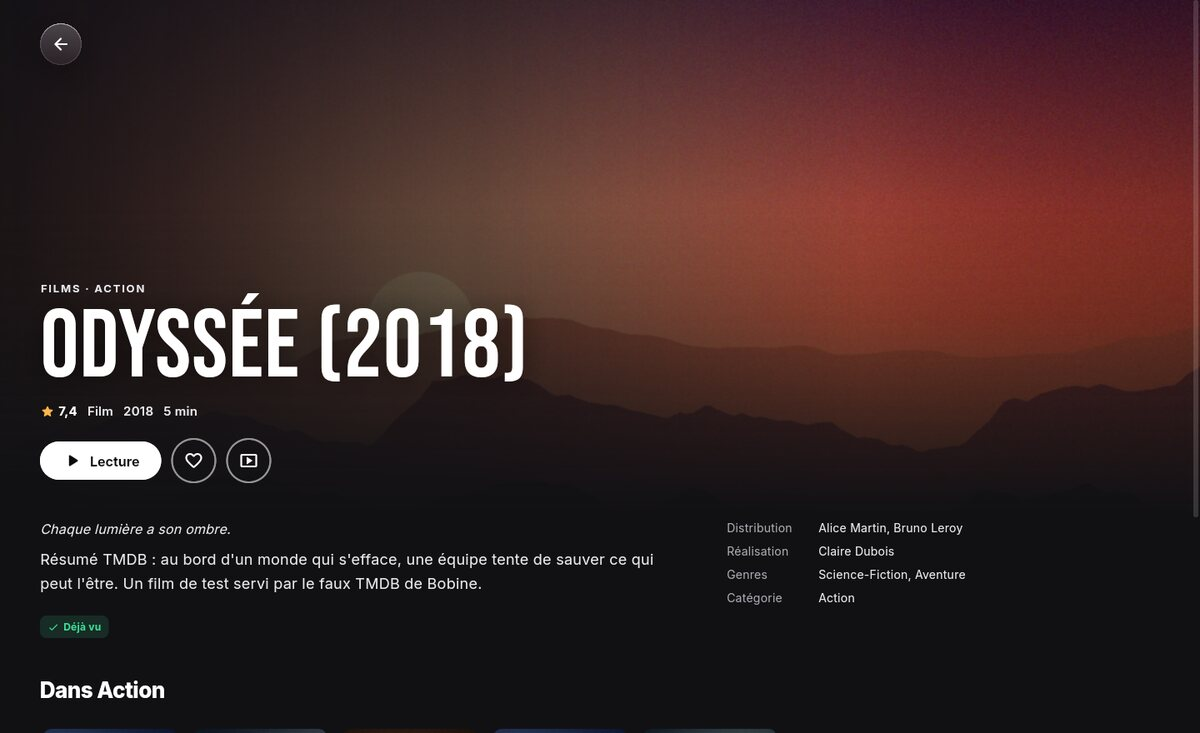
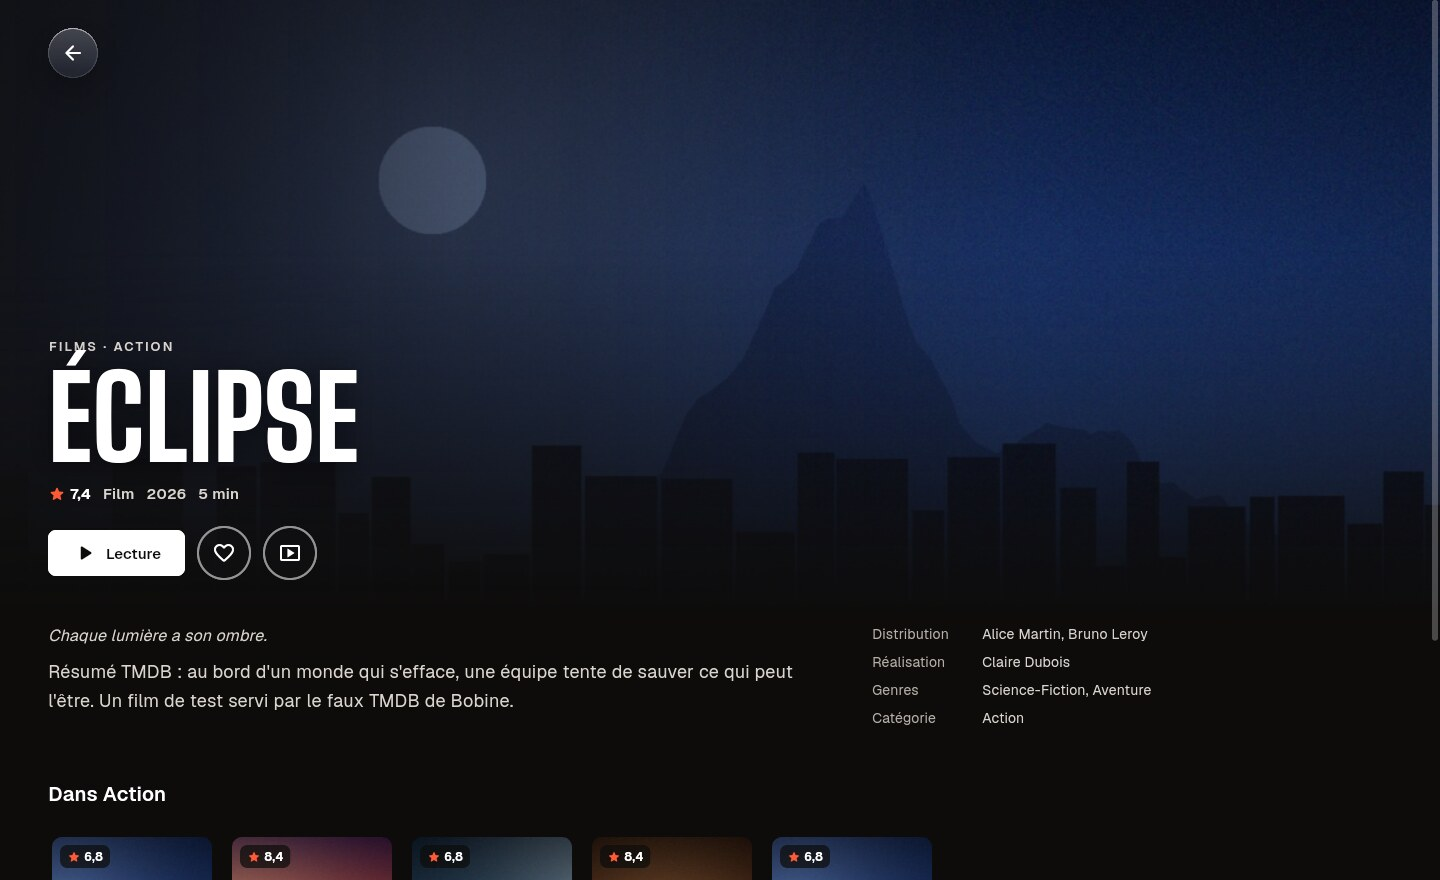
README : captures et description de la nouvelle interface Bobine
Claude-Session: https://claude.ai/code/session_01HwKVrFZB9yinwdBYKo6thQ

diff --git a/README.md b/README.md
@@ -7,13 +7,15 @@ L'objectif : un lecteur **très optimisé**, qui lit à peu près tous les flux 
 
 ![Accueil](docs/screenshots/accueil.jpg)
 
-| TV en direct | Guide TV |
+| Direct | Guide TV |
 |---|---|
-| ![TV en direct](docs/screenshots/tv-direct.jpg) | ![Guide TV](docs/screenshots/guide-tv.jpg) |
-| **Lecteur** (cache visible sur la barre de progression) | **Fiche film** |
-| ![Lecteur](docs/screenshots/lecteur-film.jpg) | ![Fiche film](docs/screenshots/fiche-film.jpg) |
-| **Série** | **Réglages** |
-| ![Série](docs/screenshots/serie.jpg) | ![Réglages](docs/screenshots/reglages.jpg) |
+| ![Direct](docs/screenshots/tv-direct.jpg) | ![Guide TV](docs/screenshots/guide-tv.jpg) |
+| **Films · Parcourir** | **Tout le catalogue** |
+| ![Films](docs/screenshots/films.jpg) | ![Tout le catalogue](docs/screenshots/catalogue.jpg) |
+| **Lecteur en direct** | **Film en pause** (résumé et distribution) |
+| ![Lecteur en direct](docs/screenshots/lecteur-direct.jpg) | ![Film en pause](docs/screenshots/lecteur-film.jpg) |
+| **Séries** | **Paramètres** |
+| ![Séries](docs/screenshots/series.jpg) | ![Paramètres](docs/screenshots/reglages.jpg) |
 
 *(Captures réalisées avec le faux serveur de test fourni dans `tool/`, d'où les mires de couleur.)*
 
@@ -24,15 +26,14 @@ L'objectif : un lecteur **très optimisé**, qui lit à peu près tous les flux 
 **Sources**
 - Comptes **Xtream Codes** (serveur + identifiant + mot de passe). Coller un lien `get.php?username=…&password=…` remplit les champs automatiquement.
 - Playlists **M3U / M3U8** (URL ou fichier local), y compris compressées en gzip. Les films et séries d'une playlist M3U sont détectés automatiquement (`/movie/`, `/series/`, extensions vidéo, `S01E02`).
-- Plusieurs sources, avec bascule rapide depuis la barre latérale.
+- Plusieurs sources, avec bascule rapide depuis le menu du profil.
 - Bouton « Tester » (Xtream : statut du compte, date d'expiration, nombre de connexions).
 - User-Agent personnalisable avec des préréglages (VLC, Kodi, IPTV Smarters…) pour les fournisseurs qui l'exigent.
 
 **TV en direct**
-- Navigation par une barre en haut : Accueil, Live TV, Guide TV, Films, Séries, plus recherche, réglages, source active et heure. L'accueil propose des tuiles d'accès rapide avec le nombre de chaînes, films et séries.
-- Catégories, favoris, chaînes récemment regardées, recherche instantanée.
-- Programme en cours et progression directement dans la liste.
-- **Aperçu intégré** : un clic lance la chaîne dans le panneau de droite, *Entrée* ou double-clic passe en plein écran **sans recharger le flux**.
+- Navigation par une barre en haut : Accueil, Direct, Guide TV, Films, Séries, plus recherche (Ctrl + K ou /), paramètres, profil et heure.
+- **Direct** en mosaïque : une tuile par chaîne avec le programme en cours, sa progression et la suite ; groupes en pastilles, favoris, chaînes récentes, filtre sur les chaînes **et les programmes**.
+- **Noms nettoyés** (« |FR| TF1 FHD ★ » → « TF1 ») et **qualités regroupées** : une seule tuile pour les flux FHD, HD et SD d'une chaîne, la qualité préférée est lancée (réglable).
 - **Guide TV** en grille (XMLTV, `.xml` ou `.xml.gz`), virtualisé pour rester fluide avec des milliers de chaînes. L'EPG est associé par `tvg-id` puis par nom de chaîne normalisé (`FR: TF1 HD` ↔ `TF1`).
 - Avec Xtream sans EPG XMLTV : repli automatique sur `get_short_epg`.
 - **Décalage du guide** réglable par source (−12 h à +12 h), pour les fournisseurs qui publient un guide avec un mauvais fuseau horaire.
@@ -41,15 +42,23 @@ L'objectif : un lecteur **très optimisé**, qui lit à peu près tous les flux 
 - **Reconnexion automatique** si le flux coupe, et relance d'une chaîne bloquée en chargement plus de 20 s.
 
 **Films et séries**
-- Catalogue en affiches, catégories, tri (ajout récent, titre, note, année), filtre.
+- « Parcourir » : grande image à la une qui défile, rangées (reprendre, ajouts, Top 10, favoris, catégories, mieux notés) ; un clic lance la lecture, l'affiche survolée propose lecture, favori et fiche.
+- « Tout le catalogue » : affiches, catégories (menu en colonnes ou pastilles), tri (ajouts récents, A–Z, note, année), filtre ; catégorie verrouillée déverrouillable sur place avec le code parental.
 - Fiches détaillées (synopsis, casting, durée, fond) récupérées depuis Xtream.
 - **Reprise de lecture** automatique, « Continuer à regarder » sur l'accueil.
 - Saisons et épisodes, épisodes vus, **épisode suivant automatique** avec compte à rebours.
 
 **Lecteur**
-- Pistes audio et sous-titres (choix de la langue préférée, `fr` par défaut), vitesse, format d'image (16:9, 4:3, 21:9, zoom, étirer).
+- En direct : programme en cours en grand, « Ensuite », panneau **Chaînes** pour zapper, **Mini-guide** des quatre prochains programmes, choix de la **qualité** de la chaîne, badge « Différé » et « Revenir au direct ».
+- Films et séries : barre de lecture, **écran de pause** avec résumé et distribution (TMDB), panneau **Épisodes**, « Passer l'intro », carte « Épisode suivant ».
+- Panneau **Audio et sous-titres** : pistes (langue préférée, `fr` par défaut), taille des sous-titres, vitesse, format d'image (16:9, 4:3, 21:9, remplir, étirer).
 - Statistiques en direct (touche I) : codec, résolution, décodage matériel ou logiciel, cache, débit réseau, images perdues.
 - Désentrelacement automatique pour les chaînes 1080i / 576i.
+
+**Nouveautés 1.2 — Bobine**
+- Nouveau nom, nouveau logo et **nouvelle interface** : polices Big Shoulders et Geist, vermillon sur fond chaud, accueil façon salle de cinéma, Direct en mosaïque, guide redessiné, lecteur et paramètres refaits.
+- Recherche dans l'en-tête (chaînes, programmes, films, séries, recherches récentes et tendances).
+- Clic droit sur les vignettes : actions rapides (favori, lancer une saison, marquer comme vu, bande-annonce…).
 
 **Nouveautés 1.1**
 - **Mini-lecteur** (touche P) : la vidéo continue dans un coin pendant que tu navigues ; double-clic pour revenir en plein écran. Sous Windows, **fenêtre flottante** toujours au-dessus des autres applications (touche O).
@@ -59,7 +68,7 @@ L'objectif : un lecteur **très optimisé**, qui lit à peu près tous les flux 
 - **Profils** (« Qui regarde ? ») avec favoris, reprises et rappels séparés, profil enfant.
 - **Contrôle parental** : code à 4 chiffres, catégories adultes verrouillées automatiquement.
 - **Ranger les catégories** (masquer, verrouiller, réordonner) et masquer des chaînes (clic droit).
-- **Fiches enrichies TMDB** (clé gratuite à saisir dans les réglages) : grandes images, résumé en français, distribution, bande-annonce.
+- **Fiches enrichies TMDB** (clé gratuite à saisir dans *Paramètres → Fiches TMDB*) : grandes images, résumé en français, distribution, bande-annonce.
 - **Sauvegarde / restauration** des données dans un fichier, avec ou sans identifiants.
 - **Diagnostic** : versions, stockage, test de connexion, journal, rapport à copier sans identifiants.
 - **Télécommande et manette** (Xbox / XInput sous Windows) : navigation aux flèches avec focus visible, A = ouvrir, B = retour.
@@ -112,7 +121,7 @@ Chaque envoi de code est compilé automatiquement sur un Windows de GitHub (test
 2. En bas de la page, télécharge l'artefact **`Bobine-Setup`** (installateur, sans droits administrateur) ou **`Bobine-windows-x64`** (version portable à dézipper). Il faut être connecté à GitHub.
 3. Lance **`Bobine-Setup-x.y.z.exe`**, ou dézippe l'archive et lance **`bobine.exe`**.
 
-Pour publier une version, mets à jour `version:` dans `pubspec.yaml` et `kAppVersion` dans `lib/core/version.dart` (un test vérifie qu'ils sont identiques), puis fusionne dans `main` : si cette version n'existe pas encore, le CI crée le tag (`v1.1.0`) et publie l'installateur et l'archive dans les **Releases**. Pousser soi-même un tag `v*` fonctionne aussi. Les applications installées proposent ensuite la mise à jour (*Réglages → À propos et mises à jour*).
+Pour publier une version, mets à jour `version:` dans `pubspec.yaml` et `kAppVersion` dans `lib/core/version.dart` (un test vérifie qu'ils sont identiques), puis fusionne dans `main` : si cette version n'existe pas encore, le CI crée le tag (`v1.1.0`) et publie l'installateur et l'archive dans les **Releases**. Pousser soi-même un tag `v*` fonctionne aussi. Les applications installées proposent ensuite la mise à jour (*Paramètres → À propos*).
 
 > La vérification des mises à jour interroge l'API publique de GitHub : le dépôt (ou au moins ses Releases) doit être public.
 
@@ -175,7 +184,9 @@ L'application se trouve dans `build\windows\x64\runner\Release\`. Copie **tout l
 | ↑ / ↓ | Chaîne précédente / suivante (direct), volume (films) |
 | Pg↑ / Pg↓ | Chaîne précédente / suivante |
 | 0–9 | Aller au numéro de chaîne |
-| C | Liste des chaînes (direct) |
+| C | Panneau des chaînes (direct) |
+| G | Mini-guide (direct) |
+| E | Épisodes (série) |
 | F, F11, double-clic | Plein écran |
 | M, molette | Muet, volume |
 | A / S | Piste audio / sous-titres suivants |
@@ -190,12 +201,12 @@ Hors du lecteur, les **flèches** déplacent le focus (cartes, menus, boutons), 
 
 ### En cas de problème
 
-- **Une chaîne ne se lance pas** : dans *Réglages → Sources → Modifier → Options avancées*, essaie le format **HLS** au lieu de MPEG-TS, ou un **User-Agent** (VLC).
-- **Image corrompue ou verte** : désactive le **décodage matériel** dans les réglages.
+- **Une chaîne ne se lance pas** : dans *Paramètres → Sources → Modifier → Options avancées*, essaie le format **HLS** au lieu de MPEG-TS, ou un **User-Agent** (VLC).
+- **Image corrompue ou verte** : passe le **décodage vidéo** sur « Logiciel » (*Paramètres → Lecture*).
 - **Effet de peigne** sur certaines chaînes : désentrelacement sur « Toujours ».
-- **Petit SSD ou peu de RAM** : réduis la taille du cache dans les réglages.
-- **Programmes du guide décalés d'une heure ou plus** : *Réglages → Sources → Modifier → Options avancées → Décalage du guide TV*.
-- **Autre souci** : *Réglages → Sauvegarde et diagnostic → Diagnostic* teste la connexion à chaque source et affiche le journal ; « Copier le rapport » donne un texte sans mot de passe à partager.
+- **Petit SSD ou peu de RAM** : choisis une **mémoire tampon** « Faible » (*Paramètres → Lecture*).
+- **Programmes du guide décalés d'une heure ou plus** : *Paramètres → Sources → Modifier → Options avancées → Décalage du guide TV*.
+- **Autre souci** : *Paramètres → Sauvegarde → Diagnostic* teste la connexion à chaque source et affiche le journal ; « Copier le rapport » donne un texte sans mot de passe à partager.
 
 ---
 
@@ -226,8 +237,9 @@ lib/
 ├── player/
 │   ├── player_service.dart  Instance libmpv unique + stratégie de cache
 │   ├── player_screen.dart   Lecteur plein écran (commandes, raccourcis, zapping)
-│   └── player_widgets.dart  Barre de progression avec zones en cache, menus
-└── ui/              Accueil, TV + guide, Films/Séries, fiches, recherche, réglages
+│   ├── player_chrome.dart   Barres, panneaux (chaînes, mini-guide, pistes, épisodes), écran de pause
+│   └── player_widgets.dart  Noms des pistes audio et sous-titres
+└── ui/              Accueil, Direct + guide, Films/Séries, fiches, recherche, paramètres
 test/                Tests (analyseurs, import complet avec faux serveur, lecteur, images)
 tool/                Faux serveur Xtream + générateur de vidéos de test
 ```
